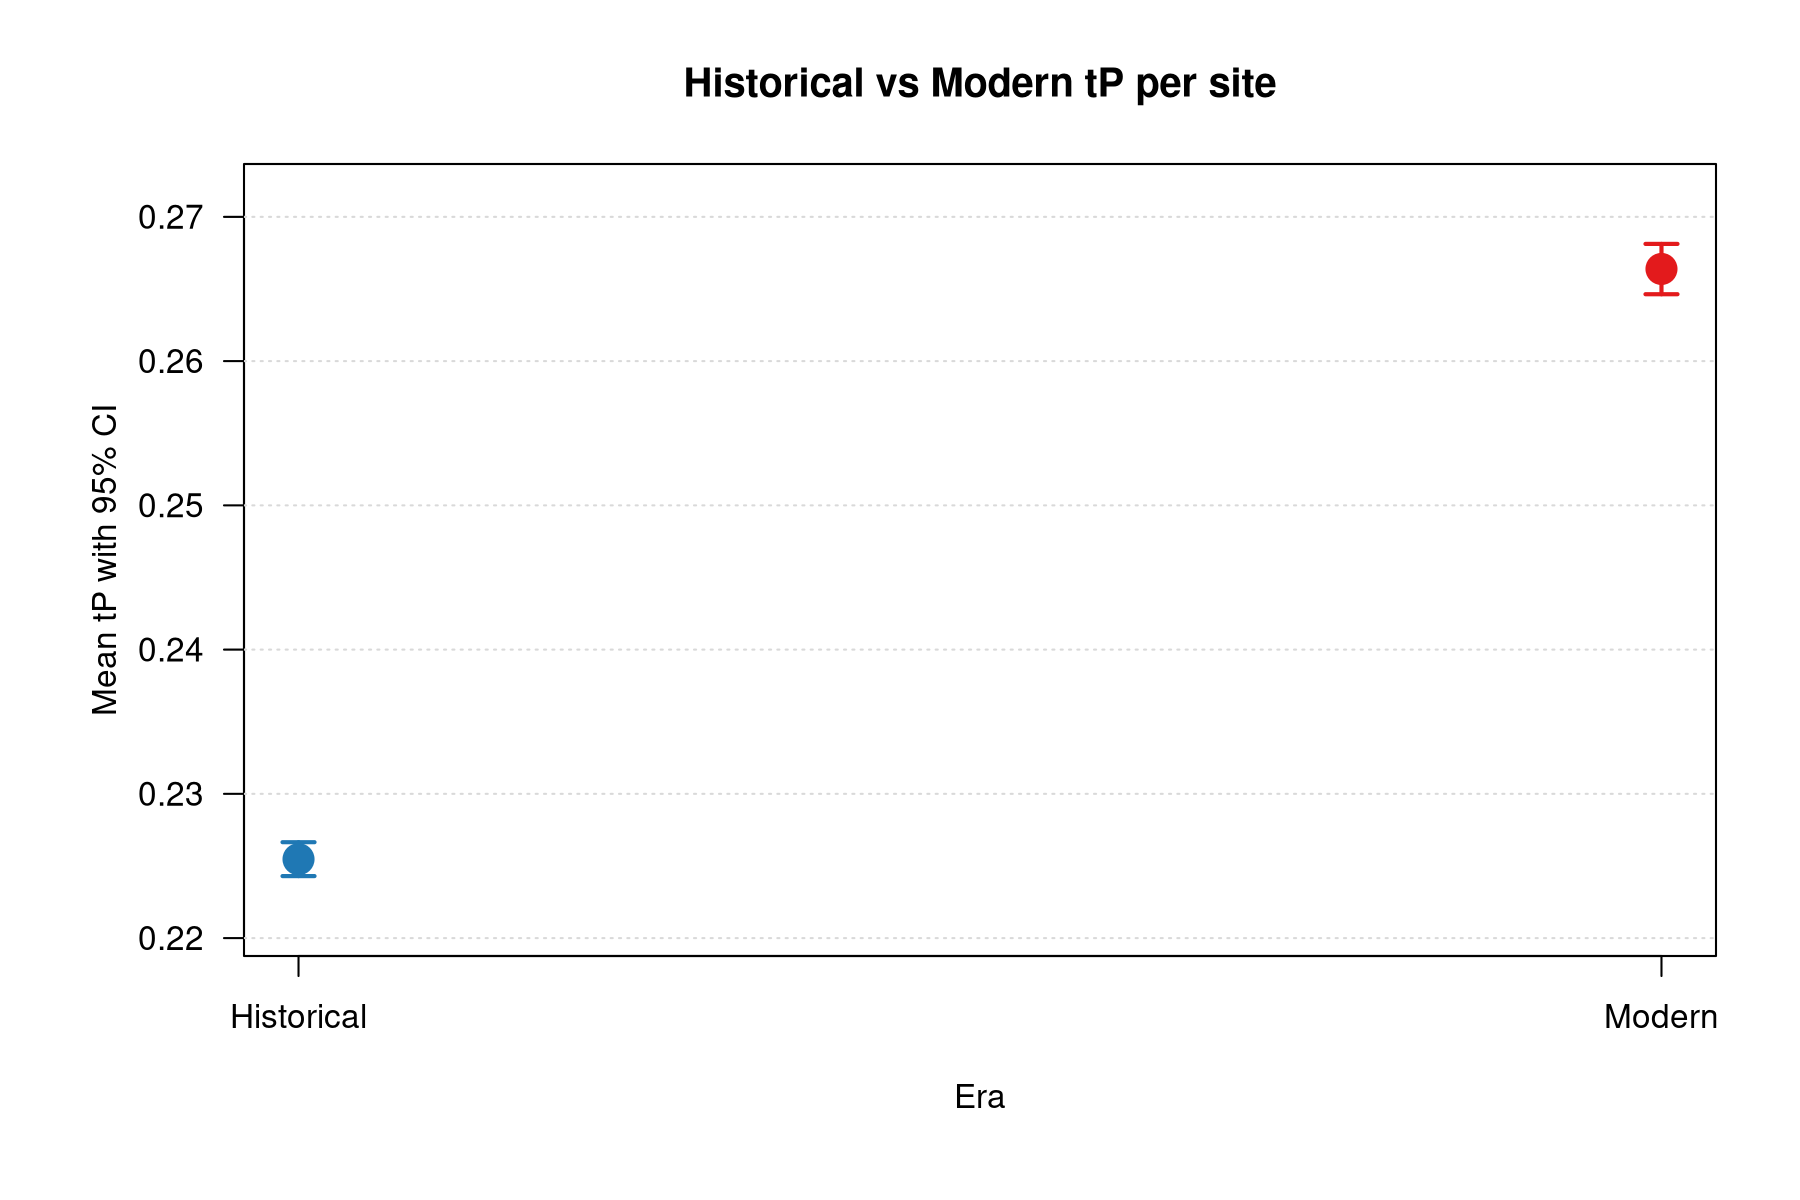
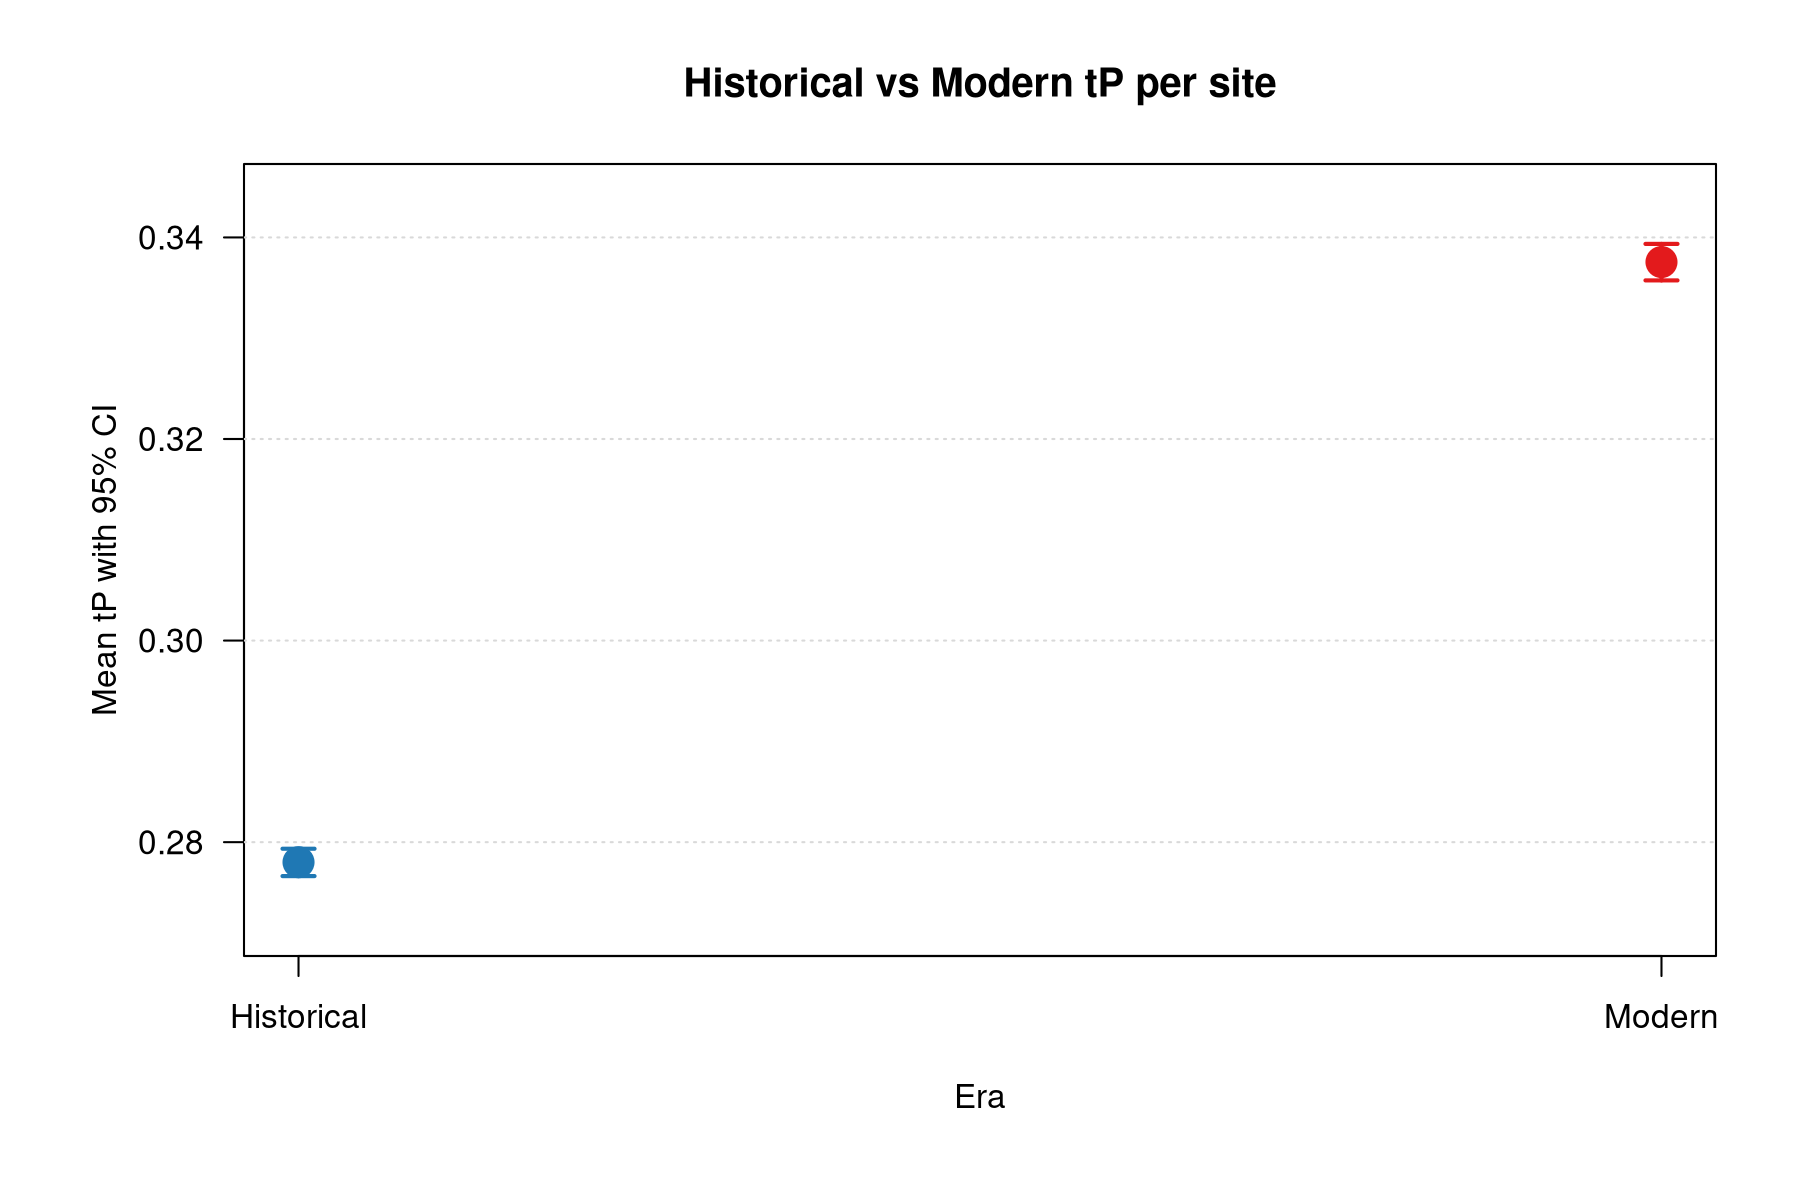
Plot depth vs. reads, plot diversity

diff --git a/README.md b/README.md
@@ -468,7 +468,18 @@ Wrote [run_MIA.sbatch](scripts/run_MIA.sbatch) for MIA that uses the [Illumina P
 ```
 scripts/run_MIA_all_historical.sh
 ```
-Output goes in [`output/mia`](output/mia/), including lower quality (`*.3x_0.67`) and higher quality (`*.10x_0.9`) filtered fasta files.
+Output goes in [`output/mia`](output/mia/), including lower quality (`*.3x_0.67`) and higher quality (`*.10x_0.9`) filtered fasta files. Took days for large files.
+
+Download a COI voucher example so that I can pull out the barcode region:
+```
+curl -s "https://eutils.ncbi.nlm.nih.gov/entrez/eutils/efetch.fcgi?db=nuccore&id=JQ431634.1&retmode=text&rettype=fasta" > data/c_viridis_coi_ref.fasta
+```
+
+Pull out the barcode region by blasting against the example:
+```
+sbatch scripts/cut_COI_from_mia.sbatch
+```
+Made `output/mia/all_samples_3x_0.67_coi.fasta` and `output/mia/all_samples_10x_0.9_coi.fasta`.
 
 ## 10. ANGSD structure and diversity with only viridis
 Re-run nf-angsd-diversity, trimmed to only the _C. viridis_ individuals. Start by copying over the base of the nf-pipeline:
@@ -769,4 +780,4 @@ module load container_env R
 crun Rscript scripts/plot_tp_historic_modern.R nf-pipelines/nf-angsd-diversity-generode/results/angsd_pop_theta/CviAPal_historic.pestPG nf-pipelines/nf-angsd-diversity-generode/results/angsd_pop_theta/CviCPal_modern.pestPG output/tp_historic_vs_modern_mean_ci-generode.png
 ```
 
-The [plot of pi](output/tp_historic_vs_modern_mean_ci-cvi-only.png) suggests higher diversity in the modern samples. This is odd given how much diversity among historical samples appeared on the PCA.
+The [plot of pi](output/tp_historic_vs_modern_mean_ci-generode.png) suggests higher diversity in the modern samples. This is odd given how much diversity among historical samples appeared on the PCA.
